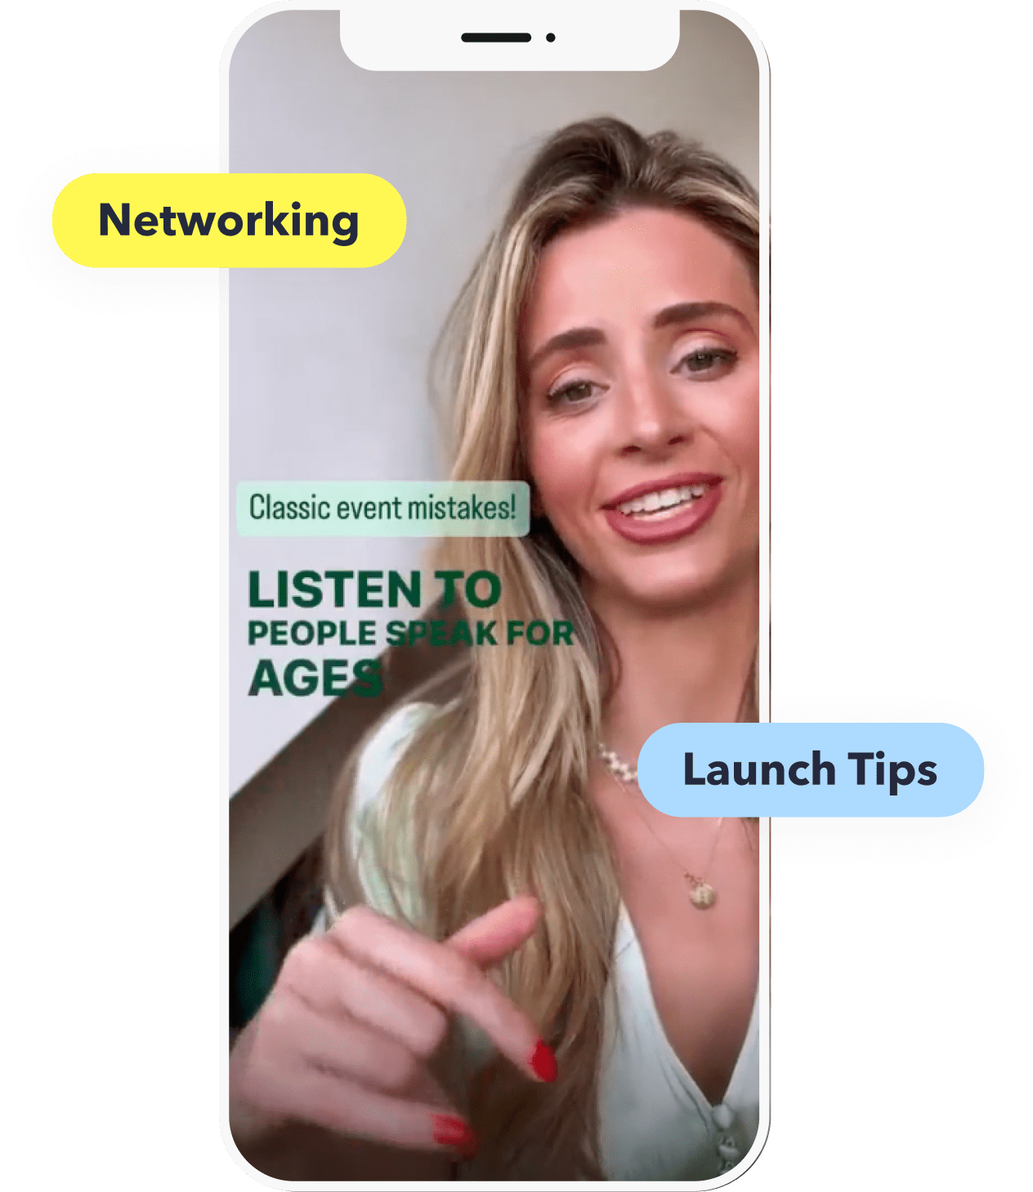
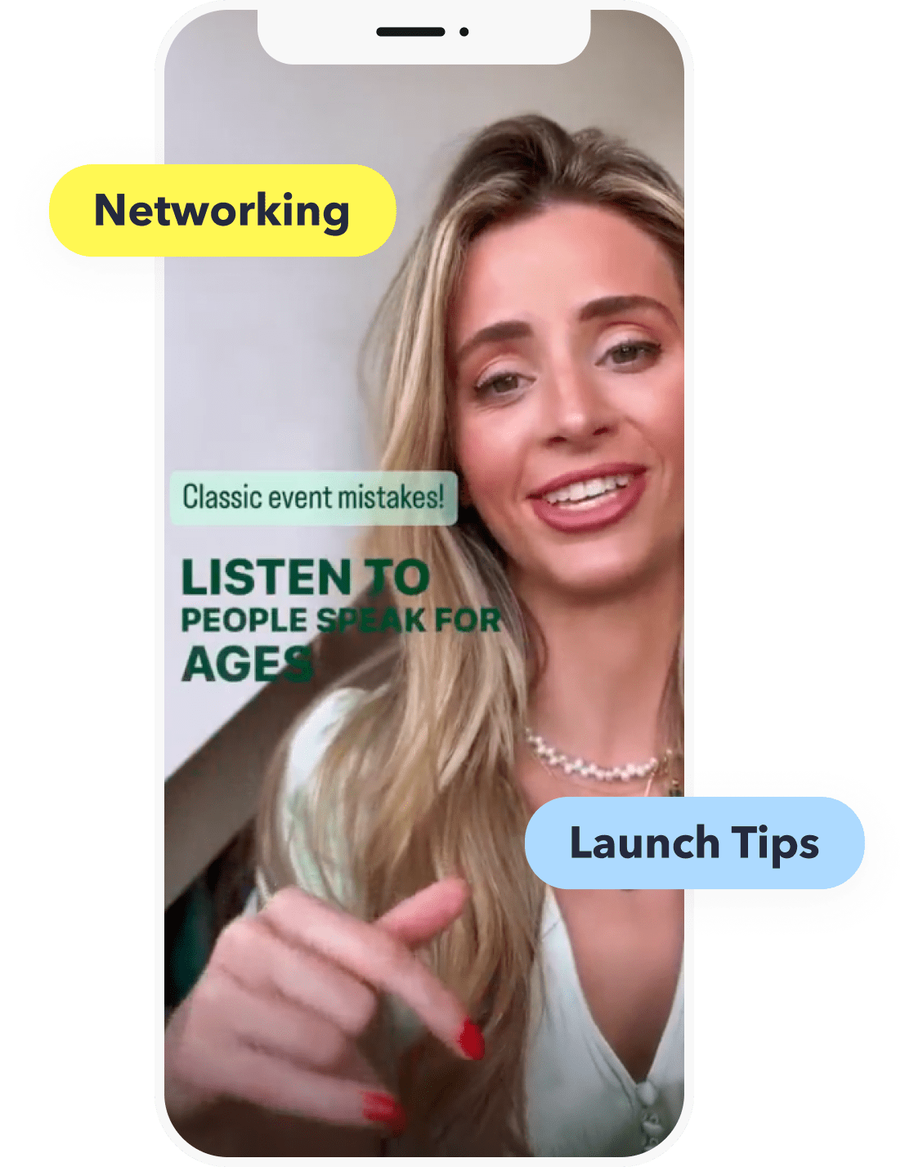
changes suggested by chang

Changed region(s): [[0.0304, 0.0, 0.9732, 1.0], [0.6995, 0.0, 0.7299, 0.0308]]

diff --git a/src/components/ui/genuin-logo.tsx b/src/components/ui/genuin-logo.tsx
@@ -3,6 +3,7 @@ import { cva, VariantProps } from 'class-variance-authority'
 import { cn } from '@lib/utils'
 import { isMobile } from 'react-device-detect'
 import { useResponsive } from '@hooks/useResponsive'
+import Link from 'next/link'
 
 const logoVariant = cva('', {
   variants: {
@@ -51,28 +52,47 @@ function Symbol({ variant = 'dark' }: Logoprops) {
 
 function Text({ variant = 'dark' }: Logoprops) {
   return (
-    <svg
-      className={cn(logoVariant({ variant }))}
-      xmlns="http://www.w3.org/2000/svg"
-      width="120"
-      height="42"
-      viewBox="0 0 120 42">
-      <path d="M33.4965 8.74713C27.7136 8.74713 23.0187 13.638 23.2423 19.5402C23.4509 24.9896 27.8477 29.3672 33.2133 29.5182C36.1494 29.5937 38.8173 28.4162 40.74 26.469C41.202 26.001 41.0679 25.2311 40.5015 24.9292L37.2822 23.2688C36.9692 23.1027 36.5966 23.1329 36.3134 23.3291C35.5085 23.8877 34.5398 24.2198 33.4816 24.2198C31.6781 24.2198 30.1132 23.2688 29.2189 21.8196C29.0103 21.5026 29.2487 21.08 29.6213 21.08H42.7222C43.2141 21.08 43.6165 20.7026 43.6761 20.2044C43.7059 19.8572 43.7357 19.51 43.7357 19.1478C43.7506 13.4418 39.1452 8.76223 33.4965 8.76223V8.74713ZM33.4965 14.0758C35.2999 14.0758 36.8648 15.0268 37.7591 16.4759C37.9678 16.7929 37.7293 17.2156 37.3567 17.2156H29.6511C29.2785 17.2156 29.0401 16.7929 29.2487 16.4759C30.1281 15.0268 31.693 14.0758 33.4965 14.0758Z" />
-      <path d="M10.5244 8.74713C4.66469 8.74713 -0.0738685 13.5305 0.000872162 19.4051C0.0756128 24.9359 4.47036 29.51 9.98622 29.779C11.1821 29.8388 12.3181 29.6894 13.4093 29.3904C13.798 29.2708 14.1418 29.6744 13.9774 30.0481C12.7666 32.7089 10.2104 34.6372 7.17597 34.9511C6.68268 35.0109 6.30898 35.4145 6.30898 35.8928V40.3174C6.30898 40.8854 6.78732 41.304 7.3404 41.2741C14.9789 40.736 21.0478 34.3531 21.0478 26.5802V19.2706C21.0329 13.4558 16.3242 8.74713 10.5094 8.74713H10.5244ZM10.5244 23.8148C8.01307 23.8148 5.98012 21.7818 5.98012 19.2706C5.98012 16.7593 8.01307 14.7264 10.5244 14.7264C13.0356 14.7264 15.0686 16.7593 15.0686 19.2706C15.0686 21.7818 13.0207 23.8148 10.5244 23.8148Z" />
-      <path d="M51.9149 28.9448C52.4566 28.9448 52.878 28.5237 52.878 27.9823V17.8609C52.878 16.0862 53.8261 14.5372 55.5266 14.5372C57.2271 14.5372 57.6786 16.4772 57.6786 17.8308V27.9823C57.6786 28.5237 58.0999 28.9448 58.6417 28.9448H63.5476C64.0893 28.9448 64.5107 28.5237 64.5107 27.9823V16.4923C64.5107 9.00274 58.4611 8.74707 57.5732 8.74707C56.6853 8.74707 54.413 8.92754 52.8479 10.5819V10.3112C52.8479 9.76974 52.4265 9.34864 51.8848 9.34864H47.1595C46.6177 9.34864 46.1964 9.76974 46.1964 10.3112V28.0124C46.1964 28.5538 46.6177 28.9749 47.1595 28.9749H51.8848L51.9149 28.9448Z" />
-      <path d="M94.0315 7.65376C96.1393 7.65376 97.8584 5.93465 97.8584 3.82688C97.8584 1.71911 96.1543 0 94.0315 0C91.9088 0 90.2047 1.71911 90.2047 3.82688C90.2047 5.93465 91.9238 7.65376 94.0315 7.65376Z" />
-      <path d="M91.7283 28.9749H96.6095C97.1587 28.9749 97.5858 28.5523 97.5858 28.009V10.2598C97.5858 9.71642 97.1587 9.29382 96.6095 9.29382H91.7283C91.1792 9.29382 90.7521 9.71642 90.7521 10.2598V28.0241C90.7521 28.5523 91.1792 28.9749 91.7283 28.9749Z" />
-      <path d="M80.7439 9.29367C80.2102 9.29367 79.7951 9.71508 79.7951 10.2569V20.3858C79.7951 22.1618 78.8612 23.712 77.1861 23.712C75.511 23.712 75.0662 21.7705 75.0662 20.4159V10.2569C75.0662 9.71508 74.6512 9.29367 74.1175 9.29367H69.2848C68.7511 9.29367 68.3361 9.71508 68.3361 10.2569V21.7705C68.3361 29.2656 74.2954 29.5215 75.17 29.5215C76.0446 29.5215 78.2831 29.3409 79.8248 27.6853V27.9562C79.8248 28.498 80.2399 28.9194 80.7735 28.9194H85.4283C85.962 28.9194 86.3771 28.498 86.3771 27.9562V10.2569C86.3771 9.71508 85.962 9.29367 85.4283 9.29367H80.7735H80.7439Z" />
-      <path d="M107.404 28.9448C107.946 28.9448 108.367 28.5237 108.367 27.9823V17.8609C108.367 16.0863 109.315 14.5372 111.016 14.5372C112.716 14.5372 113.168 16.4773 113.168 17.8308V27.9823C113.168 28.5237 113.604 28.9448 114.131 28.9448H119.037C119.579 28.9448 120 28.5237 120 27.9823V16.4923C120 9.0028 113.935 8.74713 113.062 8.74713C112.19 8.74713 109.902 8.9276 108.337 10.5819V10.3112C108.337 9.7698 107.916 9.3487 107.374 9.3487H102.649C102.107 9.3487 101.686 9.7698 101.686 10.3112V28.0124C101.686 28.5538 102.107 28.9749 102.649 28.9749H107.374L107.404 28.9448Z" />
-    </svg>
+    <Link href={'/'} className="hover:opacity-80">
+      <svg
+        className={cn(logoVariant({ variant }))}
+        xmlns="http://www.w3.org/2000/svg"
+        width="120"
+        height="42"
+        viewBox="0 0 120 42">
+        <path d="M33.4965 8.74713C27.7136 8.74713 23.0187 13.638 23.2423 19.5402C23.4509 24.9896 27.8477 29.3672 33.2133 29.5182C36.1494 29.5937 38.8173 28.4162 40.74 26.469C41.202 26.001 41.0679 25.2311 40.5015 24.9292L37.2822 23.2688C36.9692 23.1027 36.5966 23.1329 36.3134 23.3291C35.5085 23.8877 34.5398 24.2198 33.4816 24.2198C31.6781 24.2198 30.1132 23.2688 29.2189 21.8196C29.0103 21.5026 29.2487 21.08 29.6213 21.08H42.7222C43.2141 21.08 43.6165 20.7026 43.6761 20.2044C43.7059 19.8572 43.7357 19.51 43.7357 19.1478C43.7506 13.4418 39.1452 8.76223 33.4965 8.76223V8.74713ZM33.4965 14.0758C35.2999 14.0758 36.8648 15.0268 37.7591 16.4759C37.9678 16.7929 37.7293 17.2156 37.3567 17.2156H29.6511C29.2785 17.2156 29.0401 16.7929 29.2487 16.4759C30.1281 15.0268 31.693 14.0758 33.4965 14.0758Z" />
+        <path d="M10.5244 8.74713C4.66469 8.74713 -0.0738685 13.5305 0.000872162 19.4051C0.0756128 24.9359 4.47036 29.51 9.98622 29.779C11.1821 29.8388 12.3181 29.6894 13.4093 29.3904C13.798 29.2708 14.1418 29.6744 13.9774 30.0481C12.7666 32.7089 10.2104 34.6372 7.17597 34.9511C6.68268 35.0109 6.30898 35.4145 6.30898 35.8928V40.3174C6.30898 40.8854 6.78732 41.304 7.3404 41.2741C14.9789 40.736 21.0478 34.3531 21.0478 26.5802V19.2706C21.0329 13.4558 16.3242 8.74713 10.5094 8.74713H10.5244ZM10.5244 23.8148C8.01307 23.8148 5.98012 21.7818 5.98012 19.2706C5.98012 16.7593 8.01307 14.7264 10.5244 14.7264C13.0356 14.7264 15.0686 16.7593 15.0686 19.2706C15.0686 21.7818 13.0207 23.8148 10.5244 23.8148Z" />
+        <path d="M51.9149 28.9448C52.4566 28.9448 52.878 28.5237 52.878 27.9823V17.8609C52.878 16.0862 53.8261 14.5372 55.5266 14.5372C57.2271 14.5372 57.6786 16.4772 57.6786 17.8308V27.9823C57.6786 28.5237 58.0999 28.9448 58.6417 28.9448H63.5476C64.0893 28.9448 64.5107 28.5237 64.5107 27.9823V16.4923C64.5107 9.00274 58.4611 8.74707 57.5732 8.74707C56.6853 8.74707 54.413 8.92754 52.8479 10.5819V10.3112C52.8479 9.76974 52.4265 9.34864 51.8848 9.34864H47.1595C46.6177 9.34864 46.1964 9.76974 46.1964 10.3112V28.0124C46.1964 28.5538 46.6177 28.9749 47.1595 28.9749H51.8848L51.9149 28.9448Z" />
+        <path d="M94.0315 7.65376C96.1393 7.65376 97.8584 5.93465 97.8584 3.82688C97.8584 1.71911 96.1543 0 94.0315 0C91.9088 0 90.2047 1.71911 90.2047 3.82688C90.2047 5.93465 91.9238 7.65376 94.0315 7.65376Z" />
+        <path d="M91.7283 28.9749H96.6095C97.1587 28.9749 97.5858 28.5523 97.5858 28.009V10.2598C97.5858 9.71642 97.1587 9.29382 96.6095 9.29382H91.7283C91.1792 9.29382 90.7521 9.71642 90.7521 10.2598V28.0241C90.7521 28.5523 91.1792 28.9749 91.7283 28.9749Z" />
+        <path d="M80.7439 9.29367C80.2102 9.29367 79.7951 9.71508 79.7951 10.2569V20.3858C79.7951 22.1618 78.8612 23.712 77.1861 23.712C75.511 23.712 75.0662 21.7705 75.0662 20.4159V10.2569C75.0662 9.71508 74.6512 9.29367 74.1175 9.29367H69.2848C68.7511 9.29367 68.3361 9.71508 68.3361 10.2569V21.7705C68.3361 29.2656 74.2954 29.5215 75.17 29.5215C76.0446 29.5215 78.2831 29.3409 79.8248 27.6853V27.9562C79.8248 28.498 80.2399 28.9194 80.7735 28.9194H85.4283C85.962 28.9194 86.3771 28.498 86.3771 27.9562V10.2569C86.3771 9.71508 85.962 9.29367 85.4283 9.29367H80.7735H80.7439Z" />
+        <path d="M107.404 28.9448C107.946 28.9448 108.367 28.5237 108.367 27.9823V17.8609C108.367 16.0863 109.315 14.5372 111.016 14.5372C112.716 14.5372 113.168 16.4773 113.168 17.8308V27.9823C113.168 28.5237 113.604 28.9448 114.131 28.9448H119.037C119.579 28.9448 120 28.5237 120 27.9823V16.4923C120 9.0028 113.935 8.74713 113.062 8.74713C112.19 8.74713 109.902 8.9276 108.337 10.5819V10.3112C108.337 9.7698 107.916 9.3487 107.374 9.3487H102.649C102.107 9.3487 101.686 9.7698 101.686 10.3112V28.0124C101.686 28.5538 102.107 28.9749 102.649 28.9749H107.374L107.404 28.9448Z" />
+      </svg>
+    </Link>
   )
 }
 
 function AdaptiveLogo({ variant = 'dark' }: Logoprops) {
-  const { isSm = !isMobile } = useResponsive()
-
-  if (!isSm) return <Symbol variant={variant} />
-  return <Logo variant={variant} />
+  return (
+    <Link href={'/'} className="hover:opacity-50">
+      <svg
+        xmlns="http://www.w3.org/2000/svg"
+        width="144"
+        height="40"
+        viewBox="0 0 144 40"
+        className={cn(logoVariant({ variant }))}>
+        <path d="M19.8048 4.00781C10.9692 4.00781 3.84036 11.1011 3.8048 19.9367C3.77813 27.1012 8.45369 33.1812 14.9248 35.2523C17.9648 36.2212 21.2981 34.8523 22.6581 31.9634C23.0848 31.0567 23.3248 30.0434 23.3248 28.9678V28.6656C23.3248 28.39 23.0492 28.1945 22.7915 28.2923C21.8048 28.6478 20.7381 28.8345 19.627 28.8078C14.827 28.71 10.9604 24.7189 11.0048 19.9189C11.0492 15.1011 14.9781 11.2078 19.8048 11.2078C24.667 11.2078 28.6048 15.1456 28.6048 20.0078V28.9678C28.6048 30.7723 28.2137 32.4878 27.5204 34.0256C32.4626 31.3056 35.8048 26.0434 35.8048 20.0078C35.8048 11.1723 28.6404 4.00781 19.8048 4.00781Z" />
+        <g className="hidden w-0 sm:block">
+          <path d="M68.0004 11.4102C63.147 11.4102 59.2182 15.4546 59.4048 20.3524C59.5826 24.859 63.2626 28.4946 67.7693 28.6102C70.2315 28.6724 72.4715 27.6946 74.0804 26.0857C74.4626 25.7035 74.3559 25.0546 73.8759 24.8057L71.1737 23.4279C70.9159 23.2946 70.6048 23.3124 70.3648 23.4724C69.6893 23.9346 68.8715 24.2102 67.9915 24.2102C66.4804 24.2102 65.1648 23.419 64.4182 22.219C64.2493 21.9524 64.4448 21.6057 64.7559 21.6057H75.7426C76.1515 21.6057 76.4982 21.2946 76.5426 20.8857C76.5693 20.6013 76.587 20.3079 76.587 20.0057C76.6048 15.2768 72.7382 11.4102 68.0004 11.4102ZM68.0004 15.819C69.5115 15.819 70.827 16.6102 71.5737 17.8102C71.7426 18.0768 71.5471 18.4235 71.2359 18.4235H64.7737C64.4626 18.4235 64.2671 18.0768 64.4359 17.8102C65.1737 16.6102 66.4893 15.819 68.0004 15.819Z" />
+          <path d="M48.6054 11.2109C43.7076 11.2109 39.7432 15.2109 39.8054 20.1265C39.8676 24.7487 43.5476 28.5709 48.161 28.802C49.1565 28.8554 50.1165 28.7309 51.0232 28.4732C51.3521 28.3754 51.6365 28.7132 51.5032 29.0243C50.4899 31.2554 48.3476 32.8643 45.8143 33.122C45.4054 33.1665 45.0943 33.5043 45.0943 33.9132V37.6109C45.0943 38.082 45.4943 38.4376 45.9565 38.4109C52.3476 37.9665 57.4143 32.6243 57.4143 26.1176V20.0109C57.3965 15.1487 53.4587 11.2109 48.6054 11.2109ZM48.6054 23.8154C46.5076 23.8154 44.801 22.1176 44.801 20.0109C44.801 17.9132 46.4987 16.2065 48.6054 16.2065C50.7032 16.2065 52.4099 17.9043 52.4099 20.0109C52.401 22.1087 50.7032 23.8154 48.6054 23.8154Z" />
+          <path d="M83.3266 28.2091C83.771 28.2091 84.1266 27.8535 84.1266 27.4091V19.0002C84.1266 17.5246 84.9088 16.2357 86.331 16.2357C87.7532 16.2357 88.1177 17.8535 88.1177 18.9735V27.4091C88.1177 27.8535 88.4732 28.2091 88.9177 28.2091H92.9977C93.4421 28.2091 93.7977 27.8535 93.7977 27.4091V17.8535C93.7977 11.6224 88.7666 11.418 88.0377 11.418C87.3088 11.418 85.4154 11.5691 84.1177 12.938V12.7069C84.1177 12.2624 83.7621 11.9069 83.3177 11.9069H79.3977C78.9532 11.9069 78.5977 12.2624 78.5977 12.7069V27.418C78.5977 27.8624 78.9532 28.218 79.3977 28.218H83.3266V28.2091Z" />
+          <path d="M118.595 10.4234C120.362 10.4234 121.795 8.99075 121.795 7.22344C121.795 5.45613 120.362 4.02344 118.595 4.02344C116.827 4.02344 115.395 5.45613 115.395 7.22344C115.395 8.99075 116.827 10.4234 118.595 10.4234Z" />
+          <path d="M116.605 28.1304H120.605C121.049 28.1304 121.405 27.7748 121.405 27.3303V12.6281C121.405 12.1837 121.049 11.8281 120.605 11.8281H116.605C116.16 11.8281 115.805 12.1837 115.805 12.6281V27.3392C115.805 27.7748 116.16 28.1304 116.605 28.1304Z" />
+          <path d="M107.475 11.8203C107.031 11.8203 106.675 12.1759 106.675 12.6203V21.0292C106.675 22.5048 105.893 23.7936 104.471 23.7936C103.048 23.7936 102.684 22.1759 102.684 21.0559V12.6203C102.684 12.1759 102.328 11.8203 101.884 11.8203H97.8039C97.3595 11.8203 97.0039 12.1759 97.0039 12.6203V22.1848C97.0039 28.4159 102.035 28.6203 102.764 28.6203C103.493 28.6203 105.386 28.4692 106.684 27.1003V27.3314C106.684 27.7759 107.039 28.1314 107.484 28.1314H111.404C111.848 28.1314 112.204 27.7759 112.204 27.3314V12.6203C112.204 12.1759 111.848 11.8203 111.404 11.8203H107.475Z" />
+          <path d="M129.725 28.213C130.169 28.213 130.525 27.8574 130.525 27.413V19.0041C130.525 17.5285 131.307 16.2397 132.729 16.2397C134.152 16.2397 134.516 17.8574 134.516 18.9774V27.413C134.516 27.8574 134.872 28.213 135.316 28.213H139.396C139.841 28.213 140.196 27.8574 140.196 27.413V17.8574C140.196 11.6263 135.165 11.4219 134.436 11.4219C133.707 11.4219 131.814 11.573 130.516 12.9419V12.7108C130.516 12.2663 130.161 11.9108 129.716 11.9108H125.796C125.352 11.9108 124.996 12.2663 124.996 12.7108V27.4219C124.996 27.8663 125.352 28.2219 125.796 28.2219H129.725V28.213Z" />
+        </g>
+      </svg>
+    </Link>
+  )
 }
 
 export const GenuinLogo = {

diff --git a/src/components/pages/home/desktop.tsx b/src/components/pages/home/desktop.tsx
@@ -60,12 +60,12 @@ function Component1() {
         </div>
       </div>
       <div
-        className="flex h-[100vh] min-h-full flex-col items-center justify-center gap-y-3 px-5 pt-navbar lg:hidden"
+        className="flex min-h-full flex-col items-center justify-center gap-y-4 px-5 pt-navbar lg:hidden"
         style={{ background: 'radial-gradient(123.19% 48.8% at 76.02% 69.05%, #E9CAF4 0%, #ADD8FB 100%)' }}>
-        <h1 className="flex justify-center py-5 text-center text-new-h1-mobile sm:text-new-h1 ">
+        <h1 className="flex max-w-xs  justify-center py-5 text-center text-new-h1-mobile sm:text-new-h1 ">
           Community, reimagined.
         </h1>
-        <p className="mx-3 text-center text-new-md sm:w-4/5">
+        <p className="mx-3 max-w-xs text-center text-new-md sm:w-4/5">
           Download Genuin to create communities, interact with your audience, and start conversations on the topics that
           really matter.
         </p>
@@ -85,19 +85,25 @@ function Component2() {
     <>
       <div className="my-20 hidden max-h-full w-full flex-col items-center justify-center gap-y-5  lg:flex ">
         <h2 className="-tracking-new max-w-lg text-center text-new-h2">
-          <Image priority loading="eager" src={icAddButton} alt="Add" className="align-toh2 mr-2 inline-block h-full" />
+          <Image
+            priority
+            loading="eager"
+            src={icAddButton}
+            alt="Add"
+            className="mr-2 inline-block h-full translate-y-1 align-top"
+          />
           Create and grow your own community
         </h2>
         <Image priority loading="eager" className="w-1/2" src={imgC2} alt="Create you community!" />
       </div>
       <div className="flex flex-col items-center justify-center py-10 lg:hidden">
-        <h2 className="w-full px-10 py-4 text-center text-new-h2-mobile sm:text-new-h2">
+        <h2 className="w-full max-w-sm px-10 py-4 text-center text-new-h2-mobile sm:text-new-h2">
           <Image
             priority
             loading="eager"
             src={icAddButton}
             alt="add"
-            className="mr-2 inline-block w-8 align-top sm:mr-4 sm:w-11"
+            className="mr-2 inline-block w-8 translate-y-1 align-top sm:mr-4 sm:w-11"
           />
           Create and grow your own community
         </h2>
@@ -132,14 +138,15 @@ function Component3() {
         </div>
       </div>
       <div className="my-20 flex flex-col items-center gap-y-8 px-5 lg:hidden">
-        <h2 className="max-w-xl text-center text-new-h2-mobile sm:text-new-h2">
-          Be part of the conversation with
+        <h2 className="max-w-xs text-center text-new-h2-mobile sm:max-w-sm sm:text-new-h2">
+          Be part of the conversation
+          <br /> with
           <Image
             priority
             loading="eager"
             src={icVideoAddButton}
             alt="add"
-            className="ml-3 mr-2 inline-block w-8 align-bottom sm:mr-4 sm:w-11"
+            className="ml-3 mr-2 inline-block w-8 translate-y-1 align-top sm:mr-4 sm:w-11 sm:translate-y-2"
           />
           Loops
         </h2>
@@ -241,8 +248,8 @@ function Component4() {
         </div>
       </div>
       <div className="my-20 mt-16 flex flex-col items-center px-5 lg:hidden">
-        <h2 className="mb-10 max-w-2xl text-center text-new-h2-mobile sm:text-new-h2">
-          Expand your horizons and add to the
+        <h2 className="mb-10 max-w-xs text-center text-new-h2-mobile sm:max-w-sm sm:text-new-h2">
+          Expand your horizons <br /> and add to the
           <Image
             priority
             loading="eager"
@@ -250,7 +257,7 @@ function Component4() {
             width={40}
             height={30}
             alt="conversation"
-            className="ml-3 mr-2 inline-block w-8 align-bottom sm:mr-4 sm:w-11"
+            className="ml-3 mr-2 inline-block w-8 translate-y-1 align-top sm:mr-4 sm:w-11 sm:translate-y-2"
           />
           conversation
         </h2>
@@ -259,7 +266,7 @@ function Component4() {
             <AccordionItem value="connect" className="border-none ">
               <AccordionTrigger className="items-baseline">
                 <div className="flex flex-col items-start">
-                  <h3 className="text-new-h3-mobile">Connect</h3>
+                  <h3 className="mb-2 text-new-h3-mobile">Connect</h3>
                   <p className="text-start text-new-para-1">
                     Meet new people, grow your audience, and discover new interests.
                   </p>
@@ -272,7 +279,7 @@ function Component4() {
             <AccordionItem value="discover" className="border-none ">
               <AccordionTrigger className="items-baseline">
                 <div className="flex flex-col items-start">
-                  <h3 className="text-new-h3-mobile">Discover</h3>
+                  <h3 className="mb-2 text-new-h3-mobile">Discover</h3>
                   <p className="text-start text-new-para-1">
                     Create Loops, interactive discussion spaces that combine video, photo, voice recording and text.
                   </p>
@@ -285,7 +292,7 @@ function Component4() {
             <AccordionItem value="learn" className="border-none ">
               <AccordionTrigger className="items-baseline">
                 <div className="flex flex-col items-start">
-                  <h3 className="text-new-h3-mobile">Learn</h3>
+                  <h3 className="mb-2 text-new-h3-mobile">Learn</h3>
                   <p className="text-start text-new-para-1">
                     Start conversations and invite your audience to contribute, too—a space to learn alongside and from
                     each other.
@@ -375,8 +382,10 @@ function Component5() {
 function Component6() {
   return (
     <div className="my-10 flex flex-col items-center lg:my-20">
-      <h2 className="my-6 text-new-h2-mobile sm:text-new-h2">Community sneak peak</h2>
-      <h5 className="mb-10 max-w-xl px-5 text-center text-new-h5-mobile sm:text-new-h5 lg:px-0">
+      <h2 className="my-6 max-w-[200px] text-center text-new-h2-mobile sm:max-w-[300px] sm:text-new-h2 lg:max-w-none">
+        Community sneak peak
+      </h2>
+      <h5 className="mb-10 max-w-[320px] text-center text-new-h5-mobile sm:max-w-xs sm:text-new-h5 lg:max-w-xl ">
         Take a look inside some of the communities you'll find in on Genuin and get inspired to start your own.
       </h5>
       <CommunitySection />
@@ -386,7 +395,7 @@ function Component6() {
 
 function Component7() {
   return (
-    <div className="my-10 flex max-h-full flex-col items-center gap-y-5 px-6 xl:container lg:my-20 xl:px-0">
+    <div className="my-10 flex min-h-full flex-col items-center gap-y-5 px-6 xl:container lg:my-20 xl:px-0">
       <h2 className="mb-10 text-new-h2-mobile sm:text-new-h2">Experience Genuin</h2>
       <SVGAdReelTag />
       {/* <Image priority loading='eager' className="w-1/5"  src={imgC7} alt="genuin" /> */}

diff --git a/src/components/pages/home/svg-ad-reel-tag.tsx b/src/components/pages/home/svg-ad-reel-tag.tsx
@@ -1,28 +1,44 @@
 import Script from 'next/script'
-
+import Image from 'next/image'
+import imgMobileFrame from '@images/home-page/mobile-svg.svg'
 export function SVGAdReelTag() {
+  // return (
+  //   <>
+  //     <svg width="317" height="651" viewBox="0 0 317 651" fill="none" xmlns="http://www.w3.org/2000/svg">
+  //       <foreignObject xmlns="http://www.w3.org/1999/xhtml" x="7" y="5" width="300" height="600">
+  //         <iframe style={{ height: '596px', width: '298px' }}>
+  //           <div
+  //             className="gen-ext"
+  //             data-tag-id="2454"
+  //             data-company-id="1129"
+  //             style={{ height: '596px', width: '298px', marginTop: '3px', margin: 'auto', marginBottom: '40px' }}></div>
+  //         </iframe>
+  //       </foreignObject>
+  //       <rect x="3.73063" y="3.52042" width="307" height="604" rx="35" stroke="#16171A" strokeWidth="12" />
+  //       <path
+  //         d="M78.8398 3.60274H263.797V18.1951C263.797 29.0275 255.016 37.8089 244.183 37.8089H98.4536C87.6212 37.8089 78.8398 29.0275 78.8398 18.1951V3.60274Z"
+  //         fill="#16171A"
+  //         stroke="#16171A"
+  //         strokeWidth="1.00583"
+  //       />
+  //       <g filter="url(#filter0_dd_0_5)">
+  //         <rect x="145.008" y="17.5669" width="38.3893" height="5.05122" rx="2.52561" fill="#F8F8F8"></rect>
+  //       </g>
+  //       <rect x="191.479" y="17.5669" width="5.05122" height="5.05122" rx="2.52561" fill="#F8F8F8" />
+  //     </svg>
+  //   </>
+  // )
+
   return (
     <>
-      <svg width="317" height="651" viewBox="0 0 317 651" fill="none" xmlns="http://www.w3.org/2000/svg">
-        <foreignObject xmlns="http://www.w3.org/1999/xhtml" x="7" y="5" width="300" height="600">
-          <div
-            className="gen-ext"
-            data-tag-id="2454"
-            data-company-id="1129"
-            style={{ height: '596px', width: '298px', marginTop: '3px', margin: 'auto', marginBottom: '40px' }}></div>
-        </foreignObject>
-        <rect x="3.73063" y="3.52042" width="307" height="604" rx="35" stroke="#16171A" strokeWidth="12" />
-        <path
-          d="M78.8398 3.60274H263.797V18.1951C263.797 29.0275 255.016 37.8089 244.183 37.8089H98.4536C87.6212 37.8089 78.8398 29.0275 78.8398 18.1951V3.60274Z"
-          fill="#16171A"
-          stroke="#16171A"
-          strokeWidth="1.00583"
-        />
-        <g filter="url(#filter0_dd_0_5)">
-          <rect x="145.008" y="17.5669" width="38.3893" height="5.05122" rx="2.52561" fill="#F8F8F8"></rect>
-        </g>
-        <rect x="191.479" y="17.5669" width="5.05122" height="5.05122" rx="2.52561" fill="#F8F8F8" />
-      </svg>
+      <div className="relative " style={{ height: '596px', width: '298px' }}>
+        <div
+          className="gen-ext"
+          data-tag-id="2454"
+          data-company-id="1129"
+          style={{ height: '596px', width: '298px', marginTop: '3px', margin: 'auto', marginBottom: '40px' }}></div>
+        <Image className="absolute inset-0 z-[99999]" src={imgMobileFrame} alt="frame" />
+      </div>
       <Script src="https://media.begenuin.com/cxr/gen_ext.min.js" strategy="lazyOnload" />
     </>
   )

diff --git a/src/components/pages/home/footer.tsx b/src/components/pages/home/footer.tsx
@@ -8,11 +8,11 @@ export function Footer() {
   return (
     <>
       <footer className="relative hidden bg-primary lg:block">
-        <div className="container flex h-full flex-col gap-y-6">
+        <div className="mx-20 flex h-full flex-col gap-y-6">
           <div className="flex w-full items-end pb-6 pt-7">
             <div className="flex w-full flex-col gap-y-8 pt-24">
               <h2 className="text-new-h2 text-new-off-white">Join the world of Genuin.</h2>
-              <h5 className="max-w-2xl text-new-h5 text-new-off-white">
+              <h5 className="mr-6 max-w-2xl text-new-h5 text-new-off-white">
                 Download the app to join communities and add to the conversation. Don’t see a community that speaks to
                 you? Start your own!
               </h5>
@@ -30,7 +30,7 @@ export function Footer() {
             className="flex flex-col gap-y-10 bg-new-off-black px-20 pb-8 pt-12 text-primary-foreground"
             style={{ borderRadius: '20px 20px 0px 0px' }}>
             <GenuinLogo.text variant="light" />
-            <div className="flex justify-between font-semibold" style={{ fontSize: '20px', lineHeight: '110%' }}>
+            <div className="flex justify-between text-new-para-1">
               <div>
                 <p>© 2023 Genuin Inc.</p>
               </div>
@@ -50,9 +50,9 @@ export function Footer() {
         </div>
       </footer>
       <footer className="relative bg-primary lg:hidden">
-        <div className="container flex h-full flex-col gap-y-6">
+        <div className="mx-2 flex h-full flex-col gap-y-6 sm:mx-15">
           <div className="mt-5 flex flex-col items-center justify-center gap-y-2">
-            <p className="text-center text-new-h2-mobile text-new-off-white">Join the world of Genuin.</p>
+            <p className="max-w-[230px] text-center text-new-h2-mobile text-new-off-white">Join the world of Genuin.</p>
             <DownloadAppDialog>
               <Button
                 size="index-page"
@@ -66,7 +66,7 @@ export function Footer() {
             className="mt-5 flex items-center justify-between gap-y-10 bg-new-off-black p-5 text-primary-foreground"
             style={{ borderRadius: '20px 20px 0px 0px' }}>
             <GenuinLogo.text variant="light" />
-            <p>© 2023 Genuin Inc.</p>
+            <p className="text-new-para-2-mobile sm:text-new-para-2">© 2023 Genuin Inc.</p>
           </div>
         </div>
       </footer>

diff --git a/src/components/pages/home/nav-bar.tsx b/src/components/pages/home/nav-bar.tsx
@@ -72,7 +72,7 @@ export function NavBar() {
                         <p className="text-new-md text-new-off-white">Download Genuin</p>
                       </Button>
                     </DownloadAppDialog>
-                    <Link href="">
+                    <Link href={HIRING_LINK}>
                       <h3 className="text-new-h3-mobile font-semibold">Careers</h3>
                     </Link>
                     <Link href={PATH_NAME.terms}>

diff --git a/src/app/error.tsx b/src/app/error.tsx
@@ -1,5 +1,5 @@
 'use client'
 
 export default function Error({ error, reset }: { error: Error; reset: () => void }) {
-  return <div onClick={reset}>{error.message}</div>
+  return <div onClick={reset}>hello world..</div>
 }
